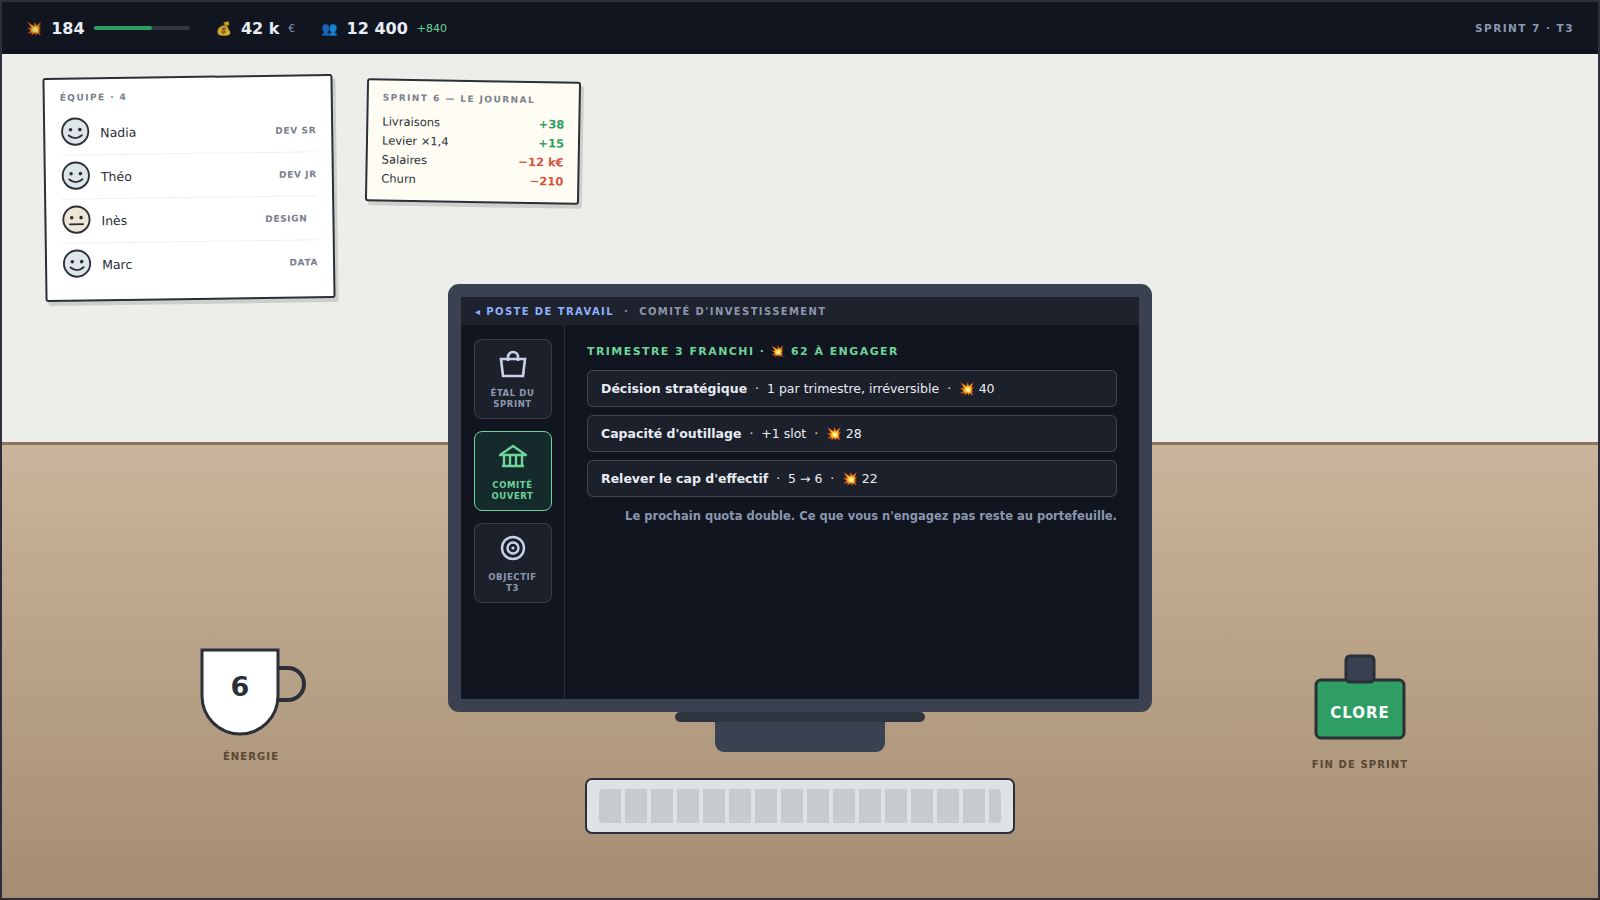
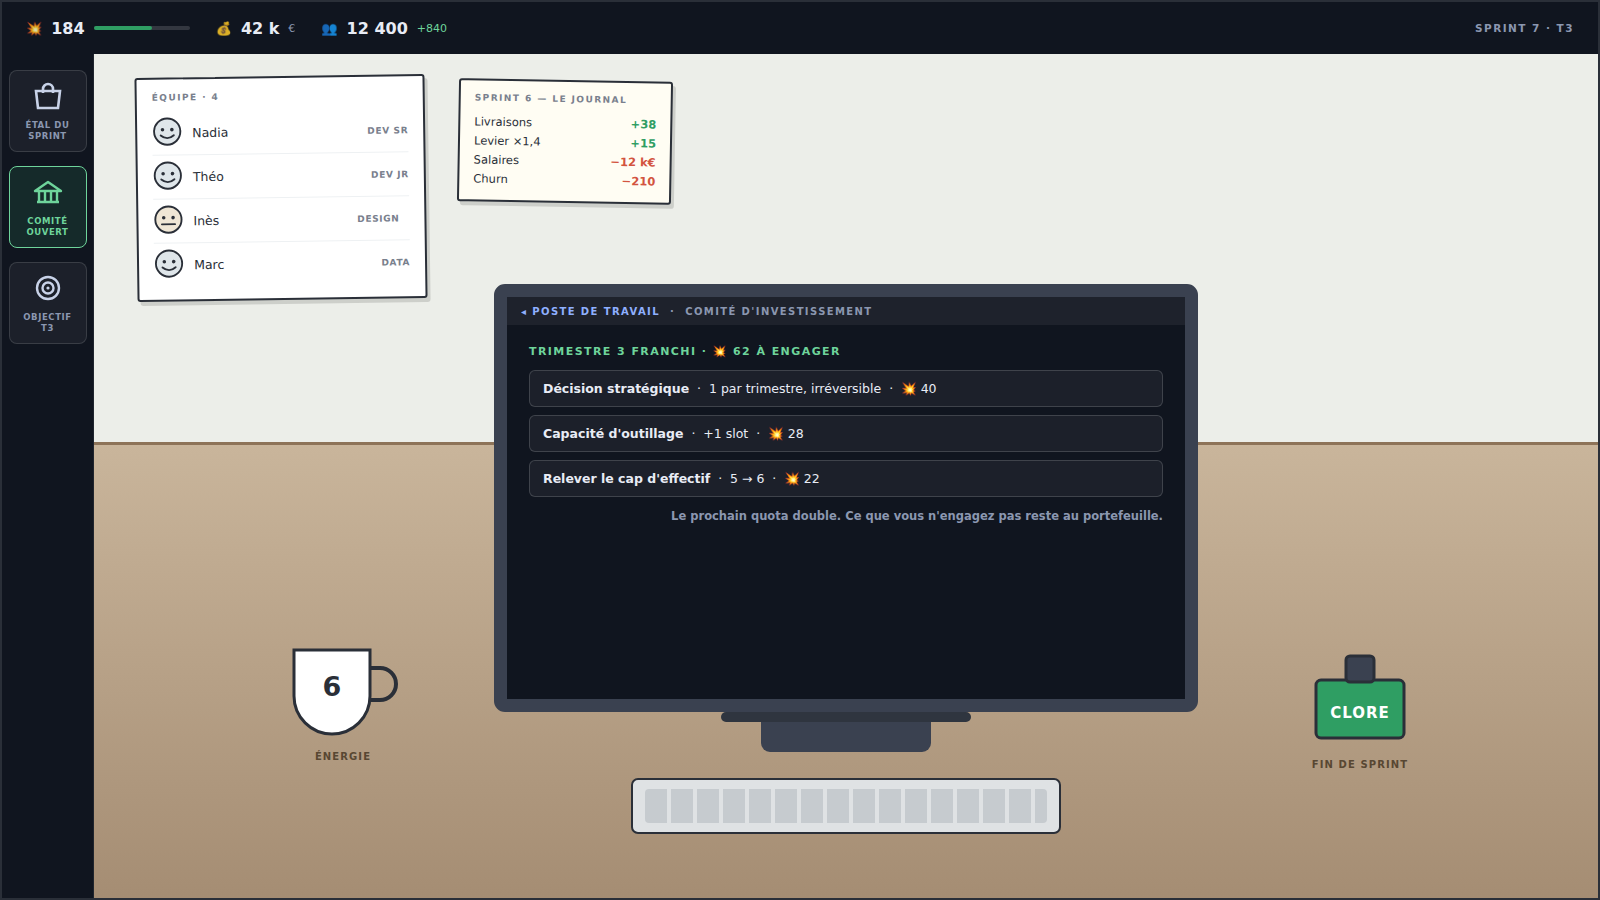
Déplace le rail des boutiques au bord de la fenêtre de jeu
Il était logé dans l'interface de l'ordinateur ; il appartient au
châssis du jeu, au même titre que le bandeau du haut. Même matière,
même statut : ce n'est pas du décor, c'est le cadre.

Claude-Session: https://claude.ai/code/session_01QCtUdjpnJqj7TA3XV2Rdiu

diff --git a/docs/maquettes/maquette-bureau.html b/docs/maquettes/maquette-bureau.html
@@ -39,8 +39,15 @@
   .alert.warn{background:rgba(217,154,43,.16);border-color:rgba(217,154,43,.55);color:#ffd792}
   .dot{width:6px;height:6px;border-radius:50%;background:currentColor;flex:0 0 6px}
 
+  /* ── LE RAIL — au bord de la FENÊTRE DE JEU, pas dans l'ordinateur ─
+     Même matière que le bandeau : c'est le châssis du jeu, pas le décor.
+     Volontairement en marge — acheter n'est pas le geste de tous les
+     sprints, et le centre appartient à ce qu'on fait à chaque tour. */
+  .rail{position:absolute;left:0;top:52px;bottom:0;width:92px;background:var(--panel);
+        border-right:1px solid rgba(255,255,255,.07);padding:16px 7px;
+        display:flex;flex-direction:column;gap:14px;align-items:center;z-index:20}
   /* ── LA PIÈCE ────────────────────────────────────────────────────── */
-  .room{position:absolute;top:52px;left:0;right:0;bottom:0;background:var(--wall)}
+  .room{position:absolute;top:52px;left:92px;right:0;bottom:0;background:var(--wall)}
   .desk{position:absolute;left:0;right:0;bottom:0;height:54%;
         background:linear-gradient(var(--wood),var(--wood-dark));border-top:3px solid #8d7358}
 
@@ -86,12 +93,7 @@
          padding:0 14px;gap:10px;font-size:10px;letter-spacing:.14em;color:var(--panel-muted);font-weight:700}
   .osbar .back{cursor:pointer;color:#8fb0ff}
   .osmain{flex:1;display:flex;min-height:0}
-
-  /* Le rail : ce qu'on achète et ce qu'on vise. Volontairement en marge —
-     ce n'est pas le geste de tous les sprints. */
-  .rail{width:104px;flex:0 0 104px;border-right:1px solid rgba(255,255,255,.1);
-        padding:14px 8px;display:flex;flex-direction:column;gap:12px;align-items:center}
-  .tile{width:78px;padding:10px 4px 8px;border-radius:8px;border:1px solid rgba(255,255,255,.13);
+  .tile{width:78px;padding:11px 4px 9px;border-radius:8px;border:1px solid rgba(255,255,255,.13);
         background:rgba(255,255,255,.05);text-align:center;cursor:pointer}
   .tile:hover{background:rgba(255,255,255,.1);border-color:#5a7ad0}
   .tile .lb{font-size:8.5px;letter-spacing:.07em;color:var(--panel-muted);margin-top:6px;
@@ -153,6 +155,8 @@
     <span class="sprint">SPRINT 7 · T3</span>
   </div>
 
+  <div class="rail" id="rail"></div>
+
   <div class="room">
 
     <!-- AU MUR -->
@@ -202,7 +206,6 @@
       <div class="screen">
         <div class="osbar" id="osbar"></div>
         <div class="osmain">
-          <div class="rail" id="rail"></div>
           <div class="osbody" id="osbody"></div>
         </div>
       </div>
